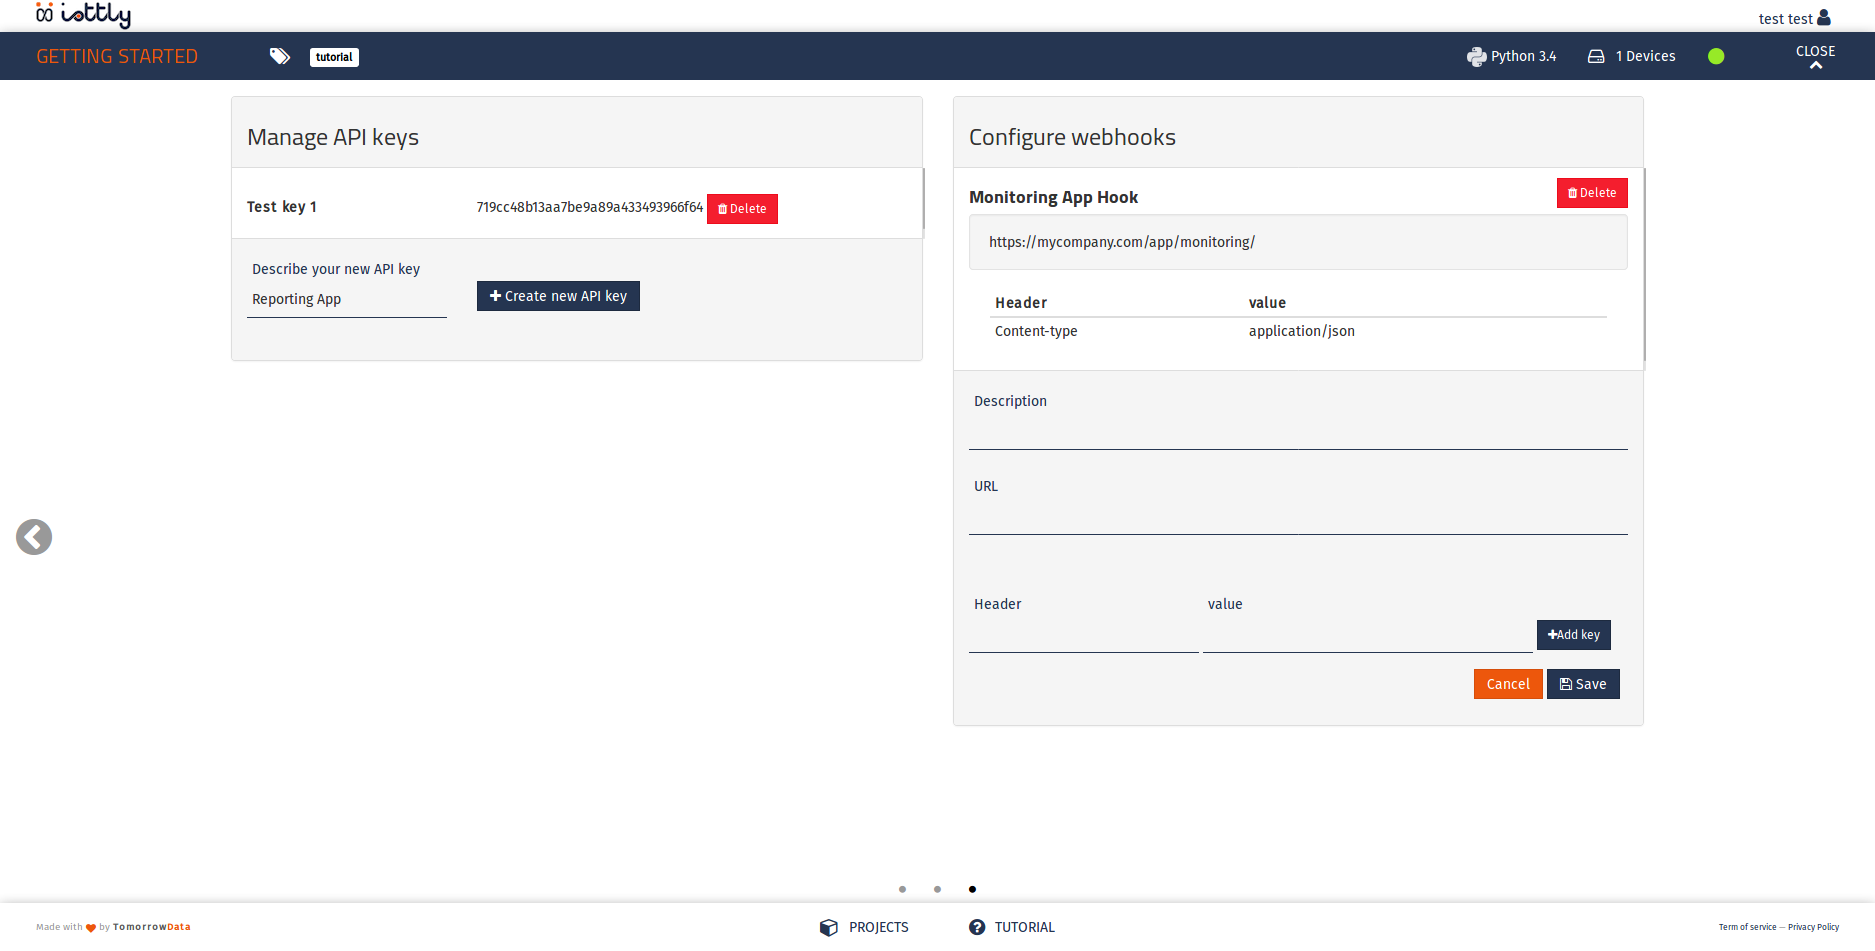
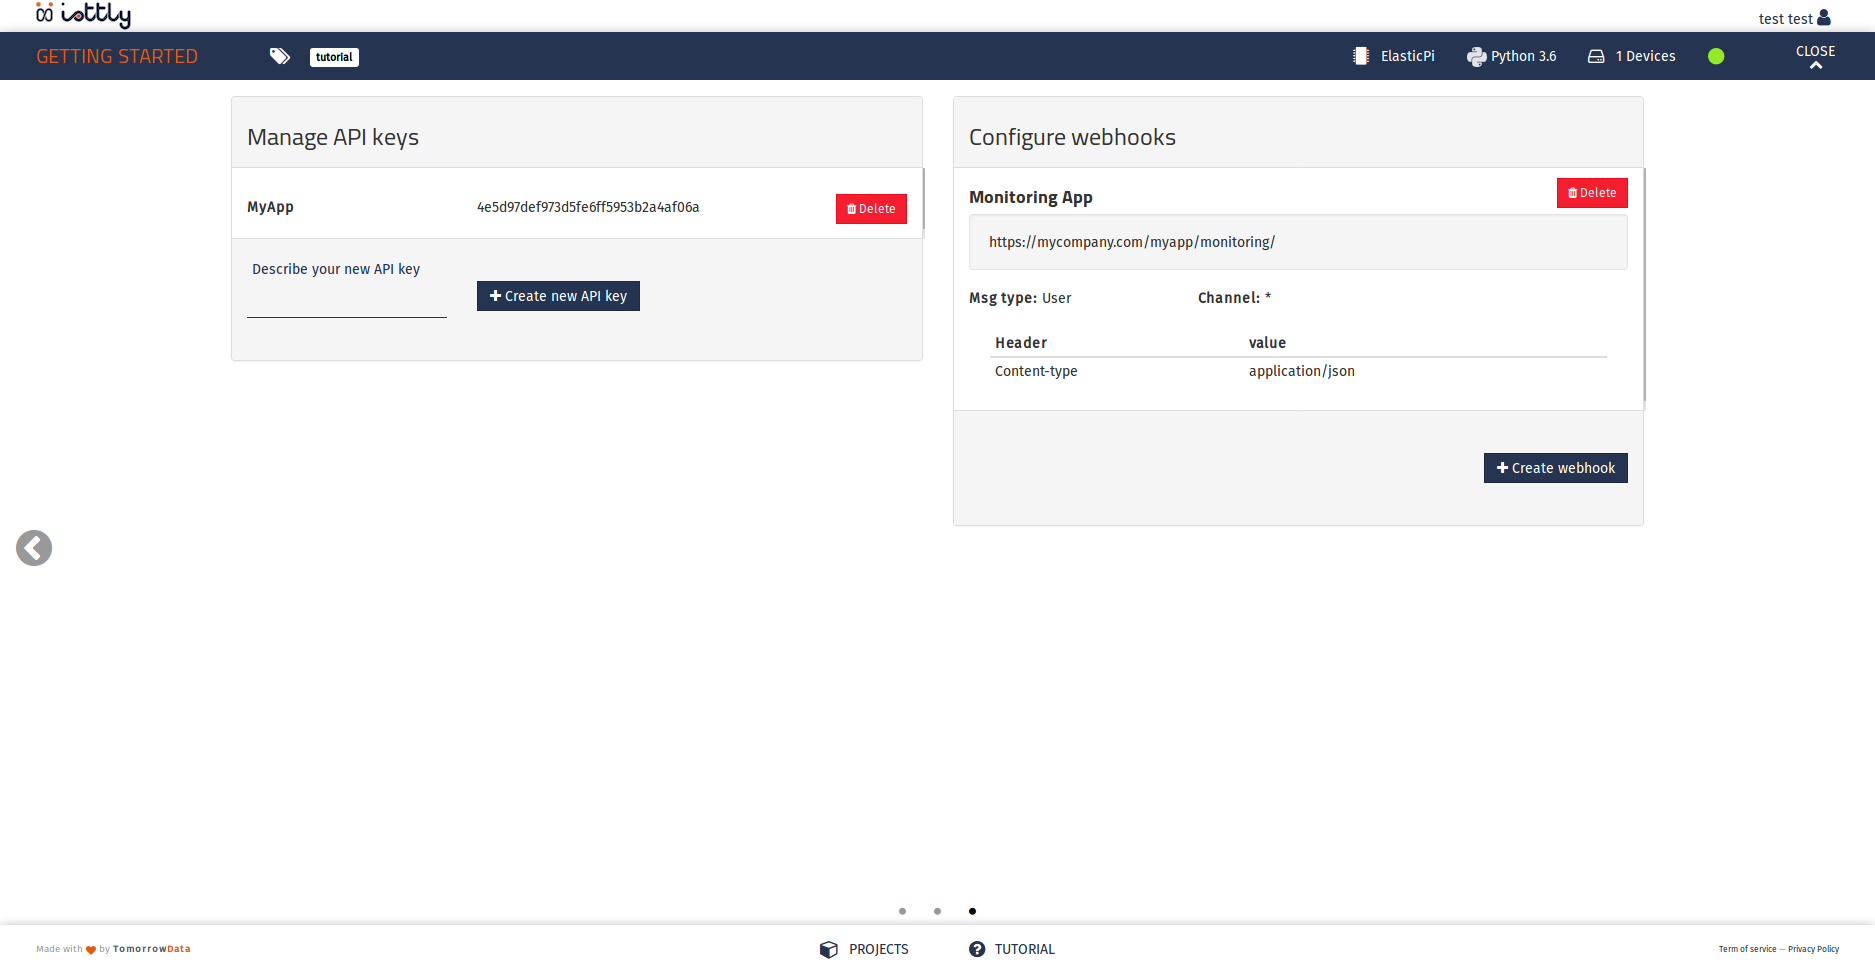
Updated webhooks doc

diff --git a/_dev/webhooks.md b/_dev/webhooks.md
@@ -5,7 +5,7 @@ title: Iottly developer documentation - Webhooks
 
 The Iottly platform can send notifications of messages received from connected devices to external services using webhoks.
 
-## Setup a webhook
+## Manage webhooks
 
  You can configure webhooks for your project through the [iottly web interface](https://cloud.iottly.com).
  From your project's dashboard toggle the project settings area by clicking the
@@ -19,15 +19,25 @@ The Iottly platform can send notifications of messages received from connected d
  - set-up a new webhook
  - and delete the ones that you don't use anymore
 
- ![Setup a webhook](/images/api/createhook.png)
+## Setup a webhook
 
- To __set-up a new webhook__ simply insert:
+ ![Setup a webhook](/images/api/webhookcreate.png)
+
+ To __set-up a new webhook__ click on "Add webhook" insert the required information:
  
-- a __description__ of the purpose of the webhook
-- the __url__ of your service
-- a __list of HTTP headers__ that iottly will use when calling your service (up to 5 custom headers can be supplied)
+ ![Setup a webhook](/images/api/webhookcreatedetail.png)
 
-and press "Save" when your are done.
+ 
+- a human-friendly __description__ of the webhook.
+- the __url__ of your service.
+- the __type__ of messages that you want to deliver:
+  - __iottly__: messages generated by the iottly agent.
+  - __user__: message generated by the user application or management scripts.
+- a **webhook channel** (string) used to filter messages based on a match with the `payload.webhook_channel` field.
+- specify whether or not you want to deliver only the payload of the messages. If selected and a **webhook channel** is specified only forward `payload.webhook_payload`.
+- a __list of HTTP headers__ that iottly will use when calling your service (up to 5 custom headers can be supplied).
+
+and press "Create webhook" when your are done.
 
 > __Note:__ Right now you can set-up up to 5 webhooks in each project
 
@@ -47,3 +57,7 @@ iottly will send an __HTTP POST request__ to the provided __webhook url__ with:
       }
     }
     ```
+
+### Example application 
+
+You can checkout our [example application](https://github.com/tomorrowdata/iottly-webhook-example) written in Python before starting to develop your own.
